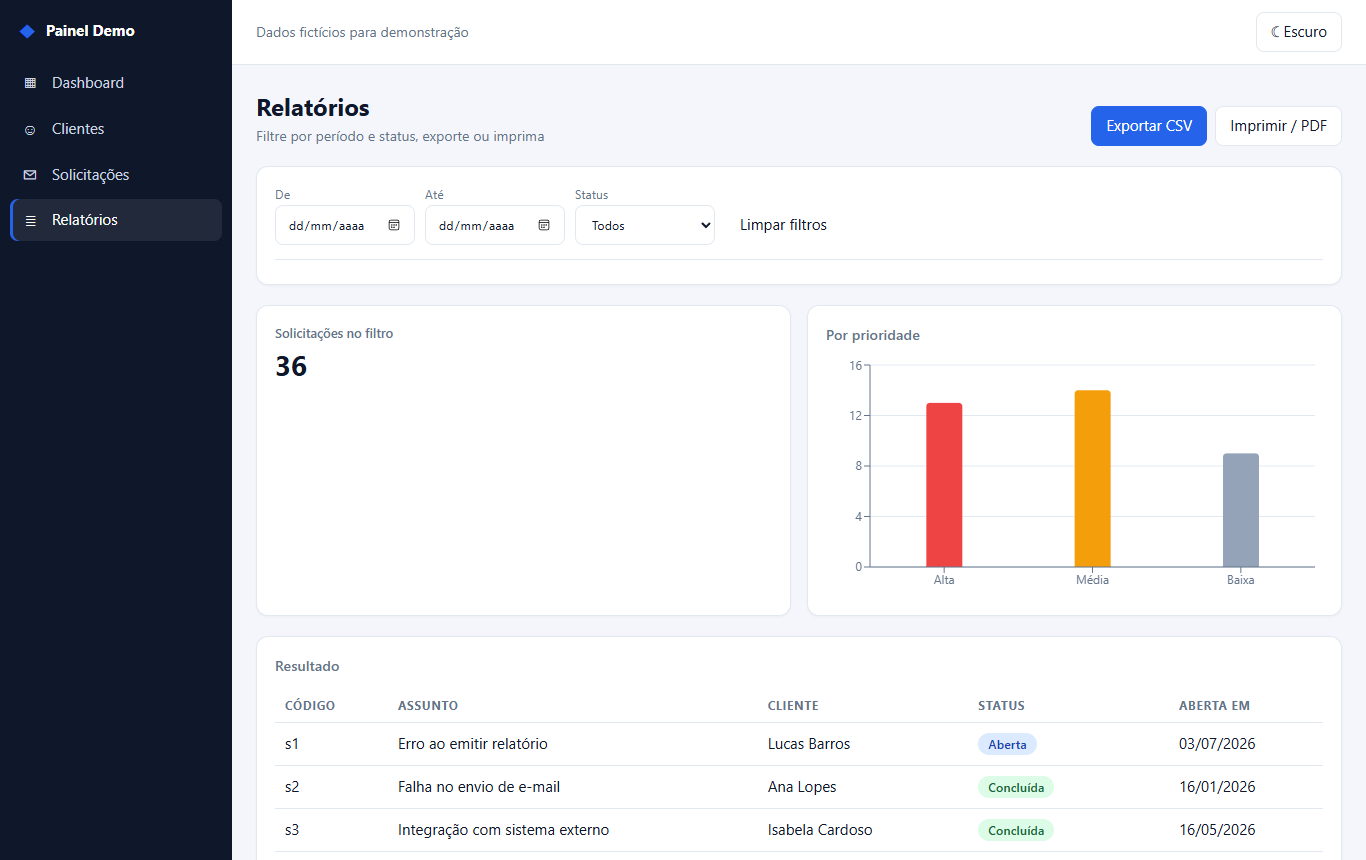
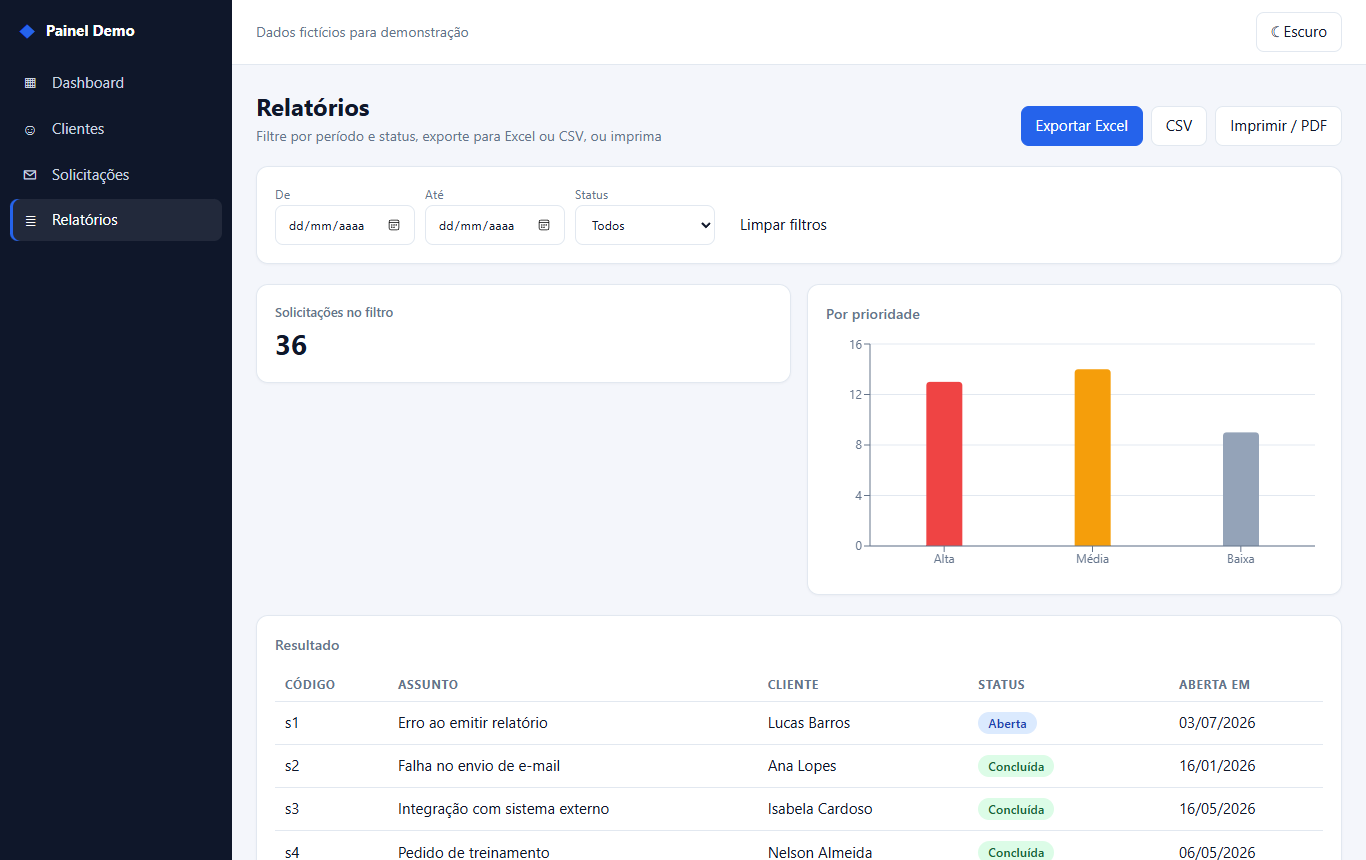
Exportação para Excel (.xlsx) nos relatórios, mantendo o CSV
Planilha com cabeçalho em negrito e fixo, larguras ajustadas e datas
reais do Excel. A biblioteca (write-excel-file) é carregada só no
clique. Nome do arquivo com a data local. Ajustes de layout na tela.

diff --git a/src/pages/Relatorios.tsx b/src/pages/Relatorios.tsx
@@ -5,6 +5,7 @@ import { Table, type Coluna } from '../components/Table'
 import { StatusSolBadge } from '../components/badges'
 import { COR, GraficoBarra } from '../components/Chart'
 import { baixarCsv, gerarCsv, type ColunaCsv } from '../domain/csv'
+import { baixarExcel, dataExcel, type ColunaPlanilha } from '../domain/planilha'
 import { filtrarSolicitacoes } from '../domain/consultas'
 import { dataBr } from '../domain/formatar'
 import { ROTULO_PRIORIDADE, ROTULO_STATUS_SOLICITACAO, type Solicitacao, type StatusSolicitacao } from '../domain/types'
@@ -23,11 +24,27 @@ export function colunasCsv(nomeCliente: (id: string) => string): ColunaCsv<Solic
   ]
 }
 
+export function colunasPlanilha(nomeCliente: (id: string) => string): ColunaPlanilha<Solicitacao>[] {
+  return [
+    { titulo: 'Código', valor: (s) => s.id, largura: 10 },
+    { titulo: 'Assunto', valor: (s) => s.titulo, largura: 34 },
+    { titulo: 'Cliente', valor: (s) => nomeCliente(s.clienteId), largura: 24 },
+    { titulo: 'Status', valor: (s) => ROTULO_STATUS_SOLICITACAO[s.status], largura: 16 },
+    { titulo: 'Prioridade', valor: (s) => ROTULO_PRIORIDADE[s.prioridade] },
+    { titulo: 'Aberta em', valor: (s) => dataExcel(s.criadaEm) },
+    { titulo: 'Atualizada em', valor: (s) => dataExcel(s.atualizadaEm), largura: 15 },
+  ]
+}
+
+// data local (yyyy-mm-dd) para o nome do arquivo; toISOString usaria UTC e viraria o dia à noite
+const hoje = () => new Date().toLocaleDateString('sv-SE')
+
 export function Relatorios() {
   const { solicitacoes, clientes } = useDados()
   const [status, setStatus] = useState<StatusSolicitacao | ''>('')
   const [de, setDe] = useState('')
   const [ate, setAte] = useState('')
+  const [gerando, setGerando] = useState(false)
   const nomeCliente = (id: string) => clientes.find((c) => c.id === id)?.nome ?? '—'
   const lista = useMemo(() => filtrarSolicitacoes(solicitacoes, { status, de, ate }), [solicitacoes, status, de, ate])
   const porPrioridade = (['alta', 'media', 'baixa'] as const).map((p) => ({ nome: ROTULO_PRIORIDADE[p], valor: lista.filter((s) => s.prioridade === p).length, cor: COR_PRIORIDADE[p] }))
@@ -44,11 +61,26 @@ export function Relatorios() {
     <>
       <PageHeader
         titulo="Relatórios"
-        subtitulo="Filtre por período e status, exporte ou imprima"
+        subtitulo="Filtre por período e status, exporte para Excel ou CSV, ou imprima"
         acoes={
           <>
-            <button type="button" className="btn btn-primario" disabled={lista.length === 0} onClick={() => baixarCsv('solicitacoes.csv', gerarCsv(lista, colunasCsv(nomeCliente)))}>
-              Exportar CSV
+            <button
+              type="button"
+              className="btn btn-primario"
+              disabled={lista.length === 0 || gerando}
+              onClick={async () => {
+                setGerando(true)
+                try {
+                  await baixarExcel(`solicitacoes-${hoje()}.xlsx`, lista, colunasPlanilha(nomeCliente), 'Solicitações')
+                } finally {
+                  setGerando(false)
+                }
+              }}
+            >
+              {gerando ? 'Gerando…' : 'Exportar Excel'}
+            </button>
+            <button type="button" className="btn" disabled={lista.length === 0} onClick={() => baixarCsv(`solicitacoes-${hoje()}.csv`, gerarCsv(lista, colunasCsv(nomeCliente)))}>
+              CSV
             </button>
             <button type="button" className="btn" onClick={() => window.print()}>
               Imprimir / PDF
@@ -69,7 +101,7 @@ export function Relatorios() {
           <Selecao rotulo="Status" valor={status} onChange={(v) => setStatus(v as StatusSolicitacao | '')} opcoes={Object.entries(ROTULO_STATUS_SOLICITACAO).map(([valor, rotulo]) => ({ valor, rotulo }))} />
         </FilterBar>
       </Card>
-      <div className="grid-2">
+      <div className="grid-2 alinhado-topo">
         <Kpi rotulo="Solicitações no filtro" valor={lista.length} />
         <Card titulo="Por prioridade">
           <GraficoBarra dados={porPrioridade} />

diff --git a/src/__tests__/planilha.test.ts b/src/__tests__/planilha.test.ts
@@ -1,0 +1,55 @@
+// @vitest-environment node
+import writeXlsxFile from 'write-excel-file/node'
+import { dataExcel, montarPlanilha, type ColunaPlanilha } from '../domain/planilha'
+
+type Item = { nome: string; valor: number; data: string }
+const colunas: ColunaPlanilha<Item>[] = [
+  { titulo: 'Nome', valor: (i) => i.nome, largura: 30 },
+  { titulo: 'Valor', valor: (i) => i.valor, formato: '#,##0.00' },
+  { titulo: 'Data', valor: (i) => dataExcel(i.data) },
+]
+const itens: Item[] = [
+  { nome: 'Ana', valor: 1234.5, data: '2026-03-10' },
+  { nome: '=SOMA(A1)', valor: 2, data: '2026-12-31' },
+]
+
+describe('montarPlanilha', () => {
+  it('cabeçalho em negrito e uma linha por item', () => {
+    const { dados } = montarPlanilha(itens, colunas)
+    expect(dados).toHaveLength(3)
+    expect(dados[0]).toEqual([
+      expect.objectContaining({ value: 'Nome', fontWeight: 'bold' }),
+      expect.objectContaining({ value: 'Valor', fontWeight: 'bold' }),
+      expect.objectContaining({ value: 'Data', fontWeight: 'bold' }),
+    ])
+  })
+
+  it('mantém tipos: texto, número com formato e data de verdade', () => {
+    const [, linha] = montarPlanilha(itens, colunas).dados
+    expect(linha[0]).toEqual({ value: 'Ana', type: String })
+    expect(linha[1]).toEqual({ value: 1234.5, type: Number, format: '#,##0.00' })
+    expect(linha[2]).toMatchObject({ type: Date, format: 'dd/mm/yyyy' })
+    expect((linha[2] as { value: Date }).value.toISOString()).toBe('2026-03-10T00:00:00.000Z')
+  })
+
+  it('texto que parece fórmula continua texto', () => {
+    expect(montarPlanilha(itens, colunas).dados[2][0]).toEqual({ value: '=SOMA(A1)', type: String })
+  })
+
+  it('usa a largura informada ou uma mínima a partir do título', () => {
+    expect(montarPlanilha(itens, colunas).larguras).toEqual([{ width: 30 }, { width: 12 }, { width: 12 }])
+  })
+
+  it('lista vazia gera só o cabeçalho', () => {
+    expect(montarPlanilha([], colunas).dados).toHaveLength(1)
+  })
+})
+
+describe('arquivo .xlsx', () => {
+  it('gera um arquivo válido (zip) com os dados', async () => {
+    const { dados, larguras } = montarPlanilha(itens, colunas)
+    const buffer = await writeXlsxFile(dados, { columns: larguras, sheet: 'Dados', stickyRowsCount: 1 }).toBuffer()
+    expect(buffer.subarray(0, 2).toString()).toBe('PK')
+    expect(buffer.length).toBeGreaterThan(1000)
+  })
+})

diff --git a/src/domain/planilha.ts b/src/domain/planilha.ts
@@ -1,0 +1,38 @@
+import type { Cell, SheetData } from 'write-excel-file/browser'
+import { baixarArquivo } from './csv'
+
+export interface ColunaPlanilha<T> {
+  titulo: string
+  valor: (item: T) => string | number | Date
+  /** Largura em caracteres. */
+  largura?: number
+  /** Formato do Excel para números e datas (ex.: '#,##0.00'). */
+  formato?: string
+}
+
+const FORMATO_DATA = 'dd/mm/yyyy'
+
+/** Converte 'yyyy-mm-dd' em Date (UTC) para o Excel tratar como data de verdade, e não texto. */
+export const dataExcel = (iso: string) => new Date(`${iso.slice(0, 10)}T00:00:00Z`)
+
+function celula(v: string | number | Date, formato?: string): Cell {
+  if (v instanceof Date) return { value: v, type: Date, format: formato ?? FORMATO_DATA }
+  if (typeof v === 'number') return { value: v, type: Number, format: formato }
+  // Texto é gravado como string literal: um valor iniciando com '=' não vira fórmula.
+  return { value: v, type: String }
+}
+
+/** Monta as linhas da planilha (cabeçalho em negrito + dados tipados). Função pura, testável. */
+export function montarPlanilha<T>(itens: T[], colunas: ColunaPlanilha<T>[]): { dados: SheetData; larguras: { width: number }[] } {
+  const cabecalho: Cell[] = colunas.map((c) => ({ value: c.titulo, fontWeight: 'bold', backgroundColor: '#E2E8F0' }))
+  const linhas = itens.map((i) => colunas.map((c) => celula(c.valor(i), c.formato)))
+  return { dados: [cabecalho, ...linhas], larguras: colunas.map((c) => ({ width: c.largura ?? Math.max(12, c.titulo.length + 2) })) }
+}
+
+/** Gera e baixa o .xlsx. A biblioteca só é carregada no clique, sem pesar na abertura do painel. */
+export async function baixarExcel<T>(nome: string, itens: T[], colunas: ColunaPlanilha<T>[], aba = 'Dados'): Promise<void> {
+  const { default: writeXlsxFile } = await import('write-excel-file/browser')
+  const { dados, larguras } = montarPlanilha(itens, colunas)
+  const blob = await writeXlsxFile(dados, { columns: larguras, sheet: aba, stickyRowsCount: 1 }).toBlob()
+  baixarArquivo(nome, blob)
+}

diff --git a/src/styles.css b/src/styles.css
@@ -55,6 +55,8 @@ main { padding: 24px; max-width: 1280px; margin: 0 auto; display: flex; flex-dir
 .filterbar .busca { flex: 1 1 240px; width: auto; }
 .campo-inline { display: flex; flex-direction: column; gap: 2px; font-size: .78rem; color: var(--muted); }
 .campo-inline .input { min-width: 140px; }
+.filterbar:last-child { border-bottom: 0; padding-bottom: 0; margin-bottom: 0; }
+.grid-2.alinhado-topo { align-items: start; }
 .tabela-wrap { overflow-x: auto; }
 .tabela { width: 100%; border-collapse: collapse; }
 .tabela th { text-align: left; font-size: .78rem; text-transform: uppercase; letter-spacing: .03em; color: var(--muted); padding: 8px 10px; border-bottom: 1px solid var(--borda); white-space: nowrap; }

diff --git a/src/domain/csv.ts b/src/domain/csv.ts
@@ -18,7 +18,11 @@ export function gerarCsv<T>(itens: T[], colunas: ColunaCsv<T>[]): string {
 }
 
 export function baixarCsv(nome: string, conteudo: string): void {
-  const url = URL.createObjectURL(new Blob([conteudo], { type: 'text/csv;charset=utf-8' }))
+  baixarArquivo(nome, new Blob([conteudo], { type: 'text/csv;charset=utf-8' }))
+}
+
+export function baixarArquivo(nome: string, blob: Blob): void {
+  const url = URL.createObjectURL(blob)
   const a = document.createElement('a')
   a.href = url
   a.download = nome

diff --git a/README.md b/README.md
@@ -6,7 +6,7 @@ Painel administrativo genérico em **React 19 + TypeScript (Vite)**. Todos os da
 
 ![Demonstração do fluxo](docs/demo.gif)
 
-Arquitetura em camadas (domínio puro, repositório atrás de uma interface, componentes reutilizáveis, telas), estado com Context + hooks e **26 testes** (Vitest + Testing Library) cobrindo busca, filtros, ordenação, paginação, exportação CSV, validação do formulário e as telas de clientes e solicitações.
+Arquitetura em camadas (domínio puro, repositório atrás de uma interface, componentes reutilizáveis, telas), estado com Context + hooks e **32 testes** (Vitest + Testing Library) cobrindo busca, filtros, ordenação, paginação, exportação Excel e CSV, validação do formulário e as telas de clientes e solicitações.
 
 ## Funcionalidades
 
@@ -14,7 +14,7 @@ Arquitetura em camadas (domínio puro, repositório atrás de uma interface, com
 2. **Clientes**: tabela com busca (ignora acentos), filtros por status e cidade, ordenação por qualquer coluna e paginação.
 3. **Solicitações**: acompanhamento por status (aberta, em andamento, concluída) com abas de contagem, busca e painel de detalhe com troca de status.
 4. **Cadastro e edição de cliente**: formulário com validação (react-hook-form + zod), criar, editar e excluir.
-5. **Relatórios**: filtros por período e status, exportação **CSV** (pronto para o Excel pt-BR) e **impressão/PDF** com folha de estilo de impressão.
+5. **Relatórios**: filtros por período e status, exportação **Excel (.xlsx)** com cabeçalho formatado, colunas ajustadas, datas reais e cabeçalho fixo; exportação **CSV** para integrações; e **impressão/PDF** com folha de estilo de impressão.
 
 Extras: menu lateral recolhível (gaveta no celular), tema claro/escuro salvo no navegador, tabelas que viram cartões em telas pequenas, layout mobile-first e navegação por teclado.
 
@@ -53,6 +53,7 @@ src/
     consulta.ts             # buscar, ordenar, paginar, período
     consultas.ts            # consultas específicas de clientes e solicitações
     csv.ts                  # geração e download de CSV
+    planilha.ts             # geração do .xlsx (células tipadas, larguras)
     validacao.ts            # schema zod do formulário
     indicadores.ts          # KPIs e agregação por mês
   data/
@@ -70,6 +71,7 @@ scripts/capturas.mjs        # gera docs/screens e docs/demo.gif
 - **Repositório atrás de interface**: a UI só conhece `Repository` (`listarClientes`, `salvarCliente`, `atualizarStatus`…). Para um backend real (REST, Laravel, NestJS), basta criar `ApiRepository` com `fetch` e trocar uma linha em `main.tsx`.
 - **Regras puras em `domain/`**: busca, ordenação, paginação, CSV e validação são funções sem React, fáceis de testar e reaproveitar no servidor.
 - **Roteamento por hash** sem biblioteca: funciona no GitHub Pages sem configuração de servidor e mantém o bundle enxuto.
+- **Excel nativo, carregado sob demanda**: o `.xlsx` é gerado com `write-excel-file` (leve, sem as vulnerabilidades do pacote `xlsx` do npm), importado só no clique de exportar, num pedaço separado do bundle. Datas vão como data do Excel (filtráveis e ordenáveis) e texto vai como texto, então nada vira fórmula.
 - **CSV com `;`, BOM e CRLF**: abre direto no Excel em português com acentos corretos; células que começam com `=`, `+`, `-` ou `@` são neutralizadas contra injeção de fórmula.
 - **Tema por variáveis CSS**: claro/escuro sem duplicar estilos; segue a preferência do sistema na primeira visita.
 - **Dados determinísticos**: o seed usa um gerador pseudoaleatório com semente fixa, então testes e capturas são reproduzíveis.
